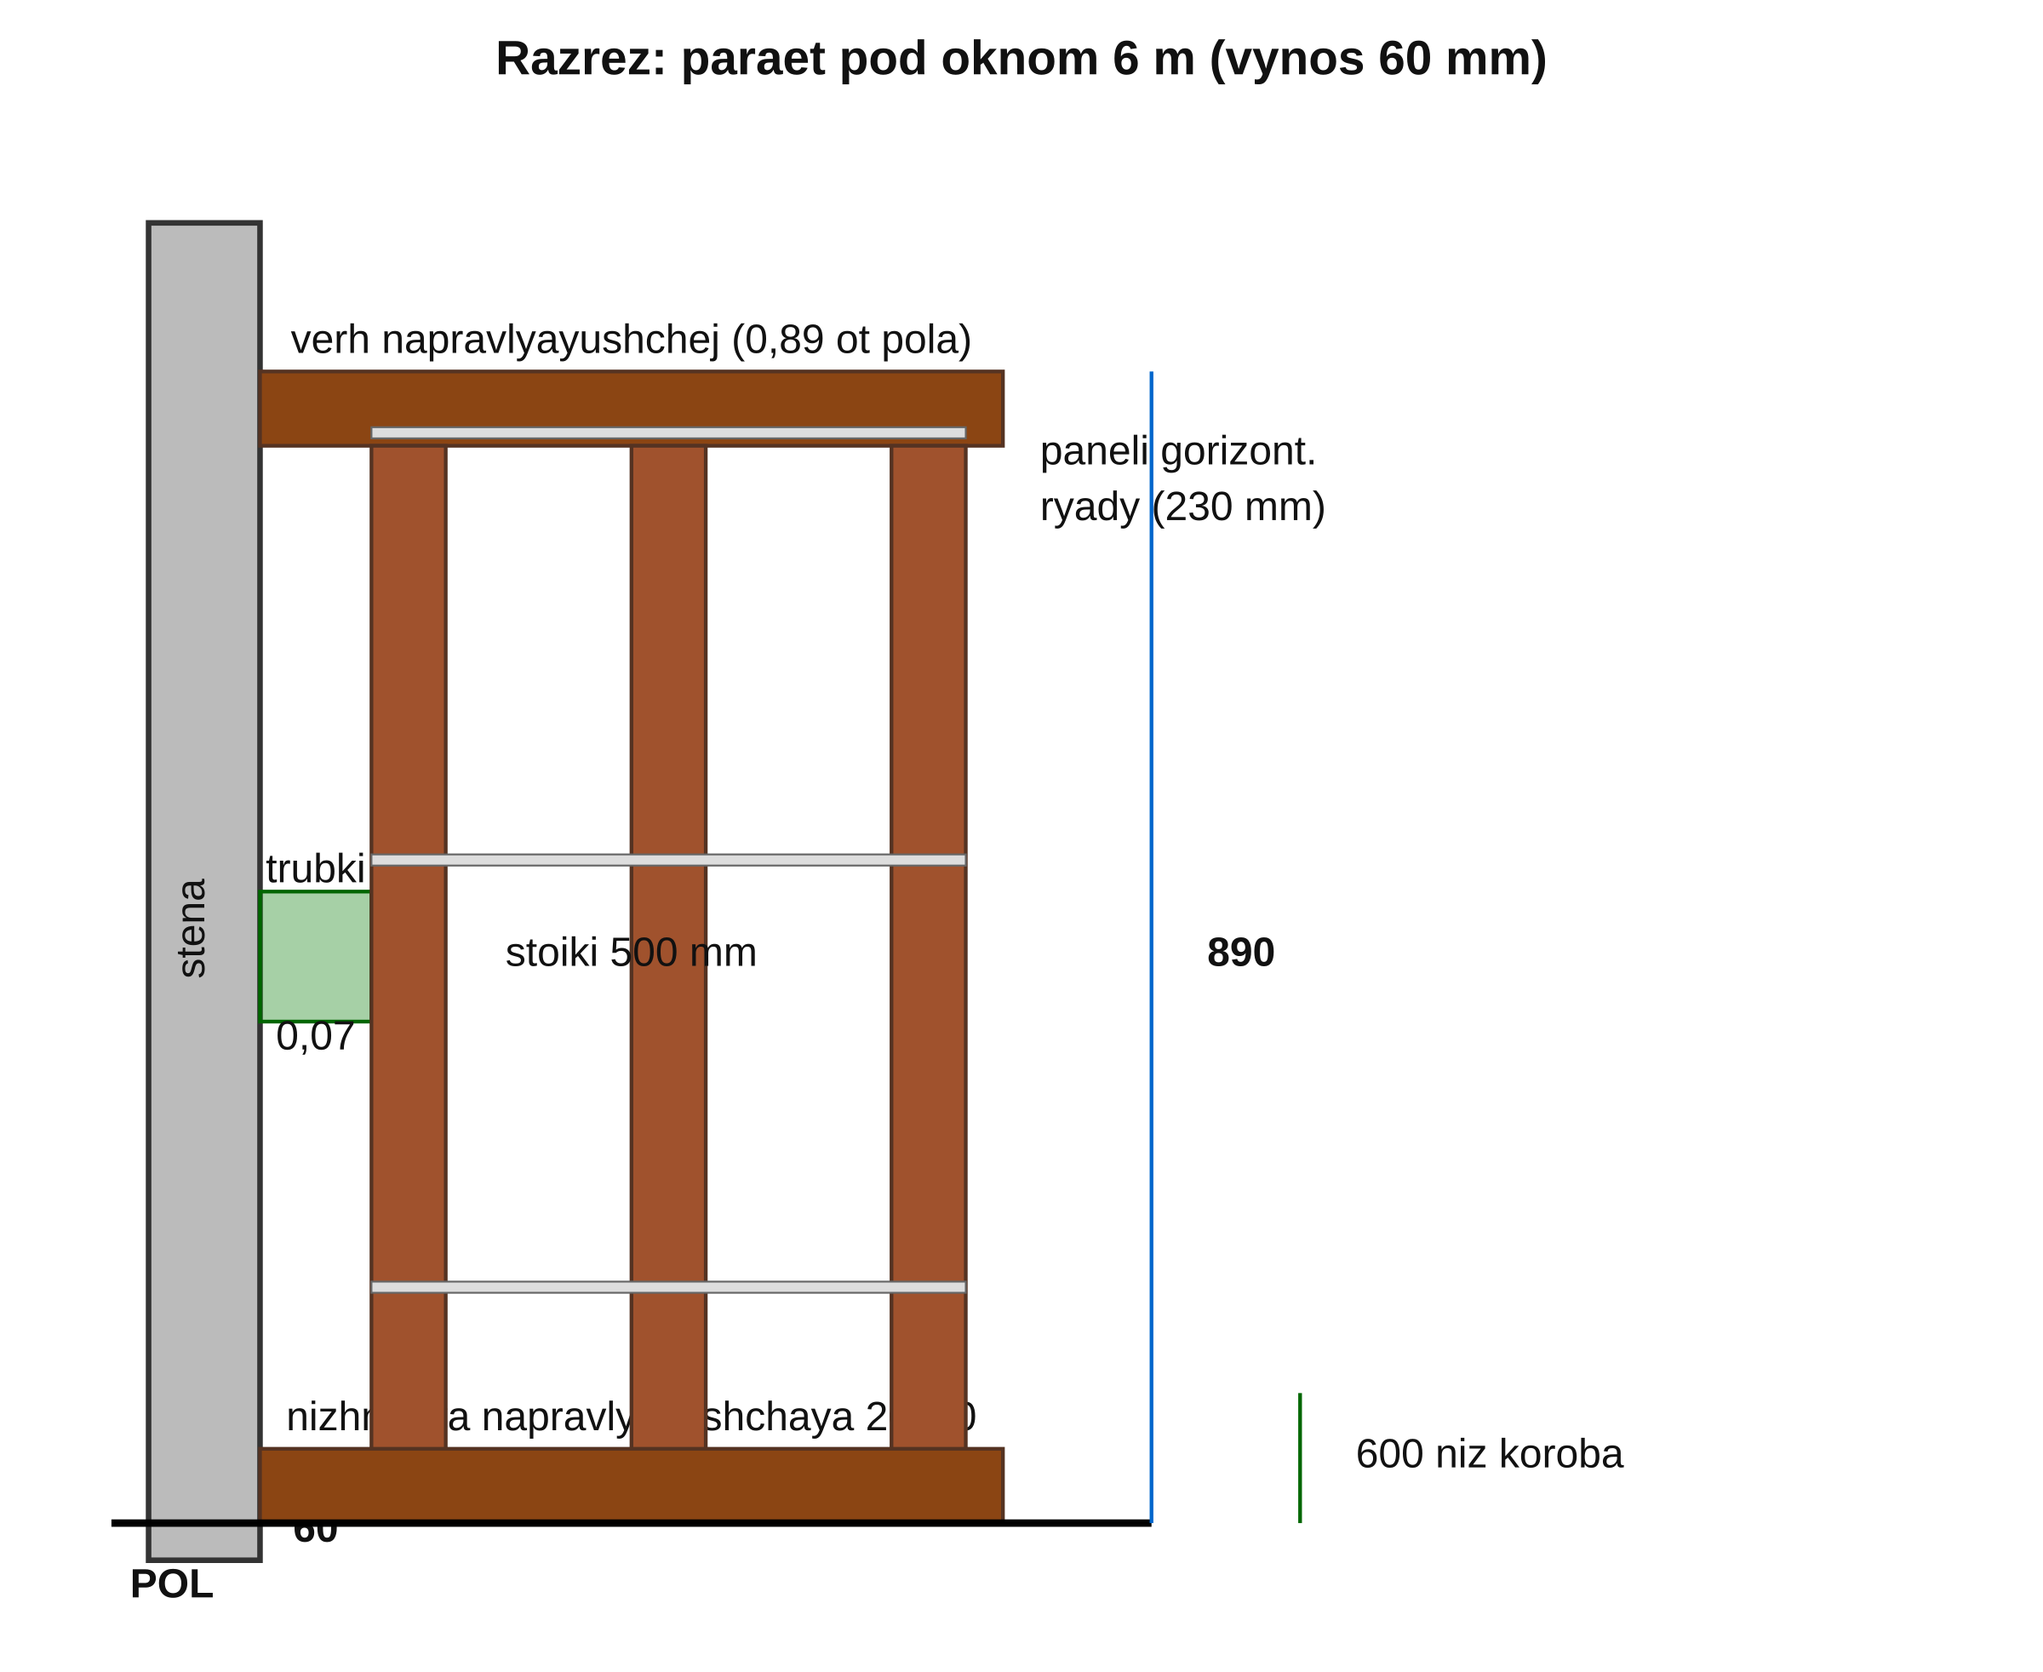
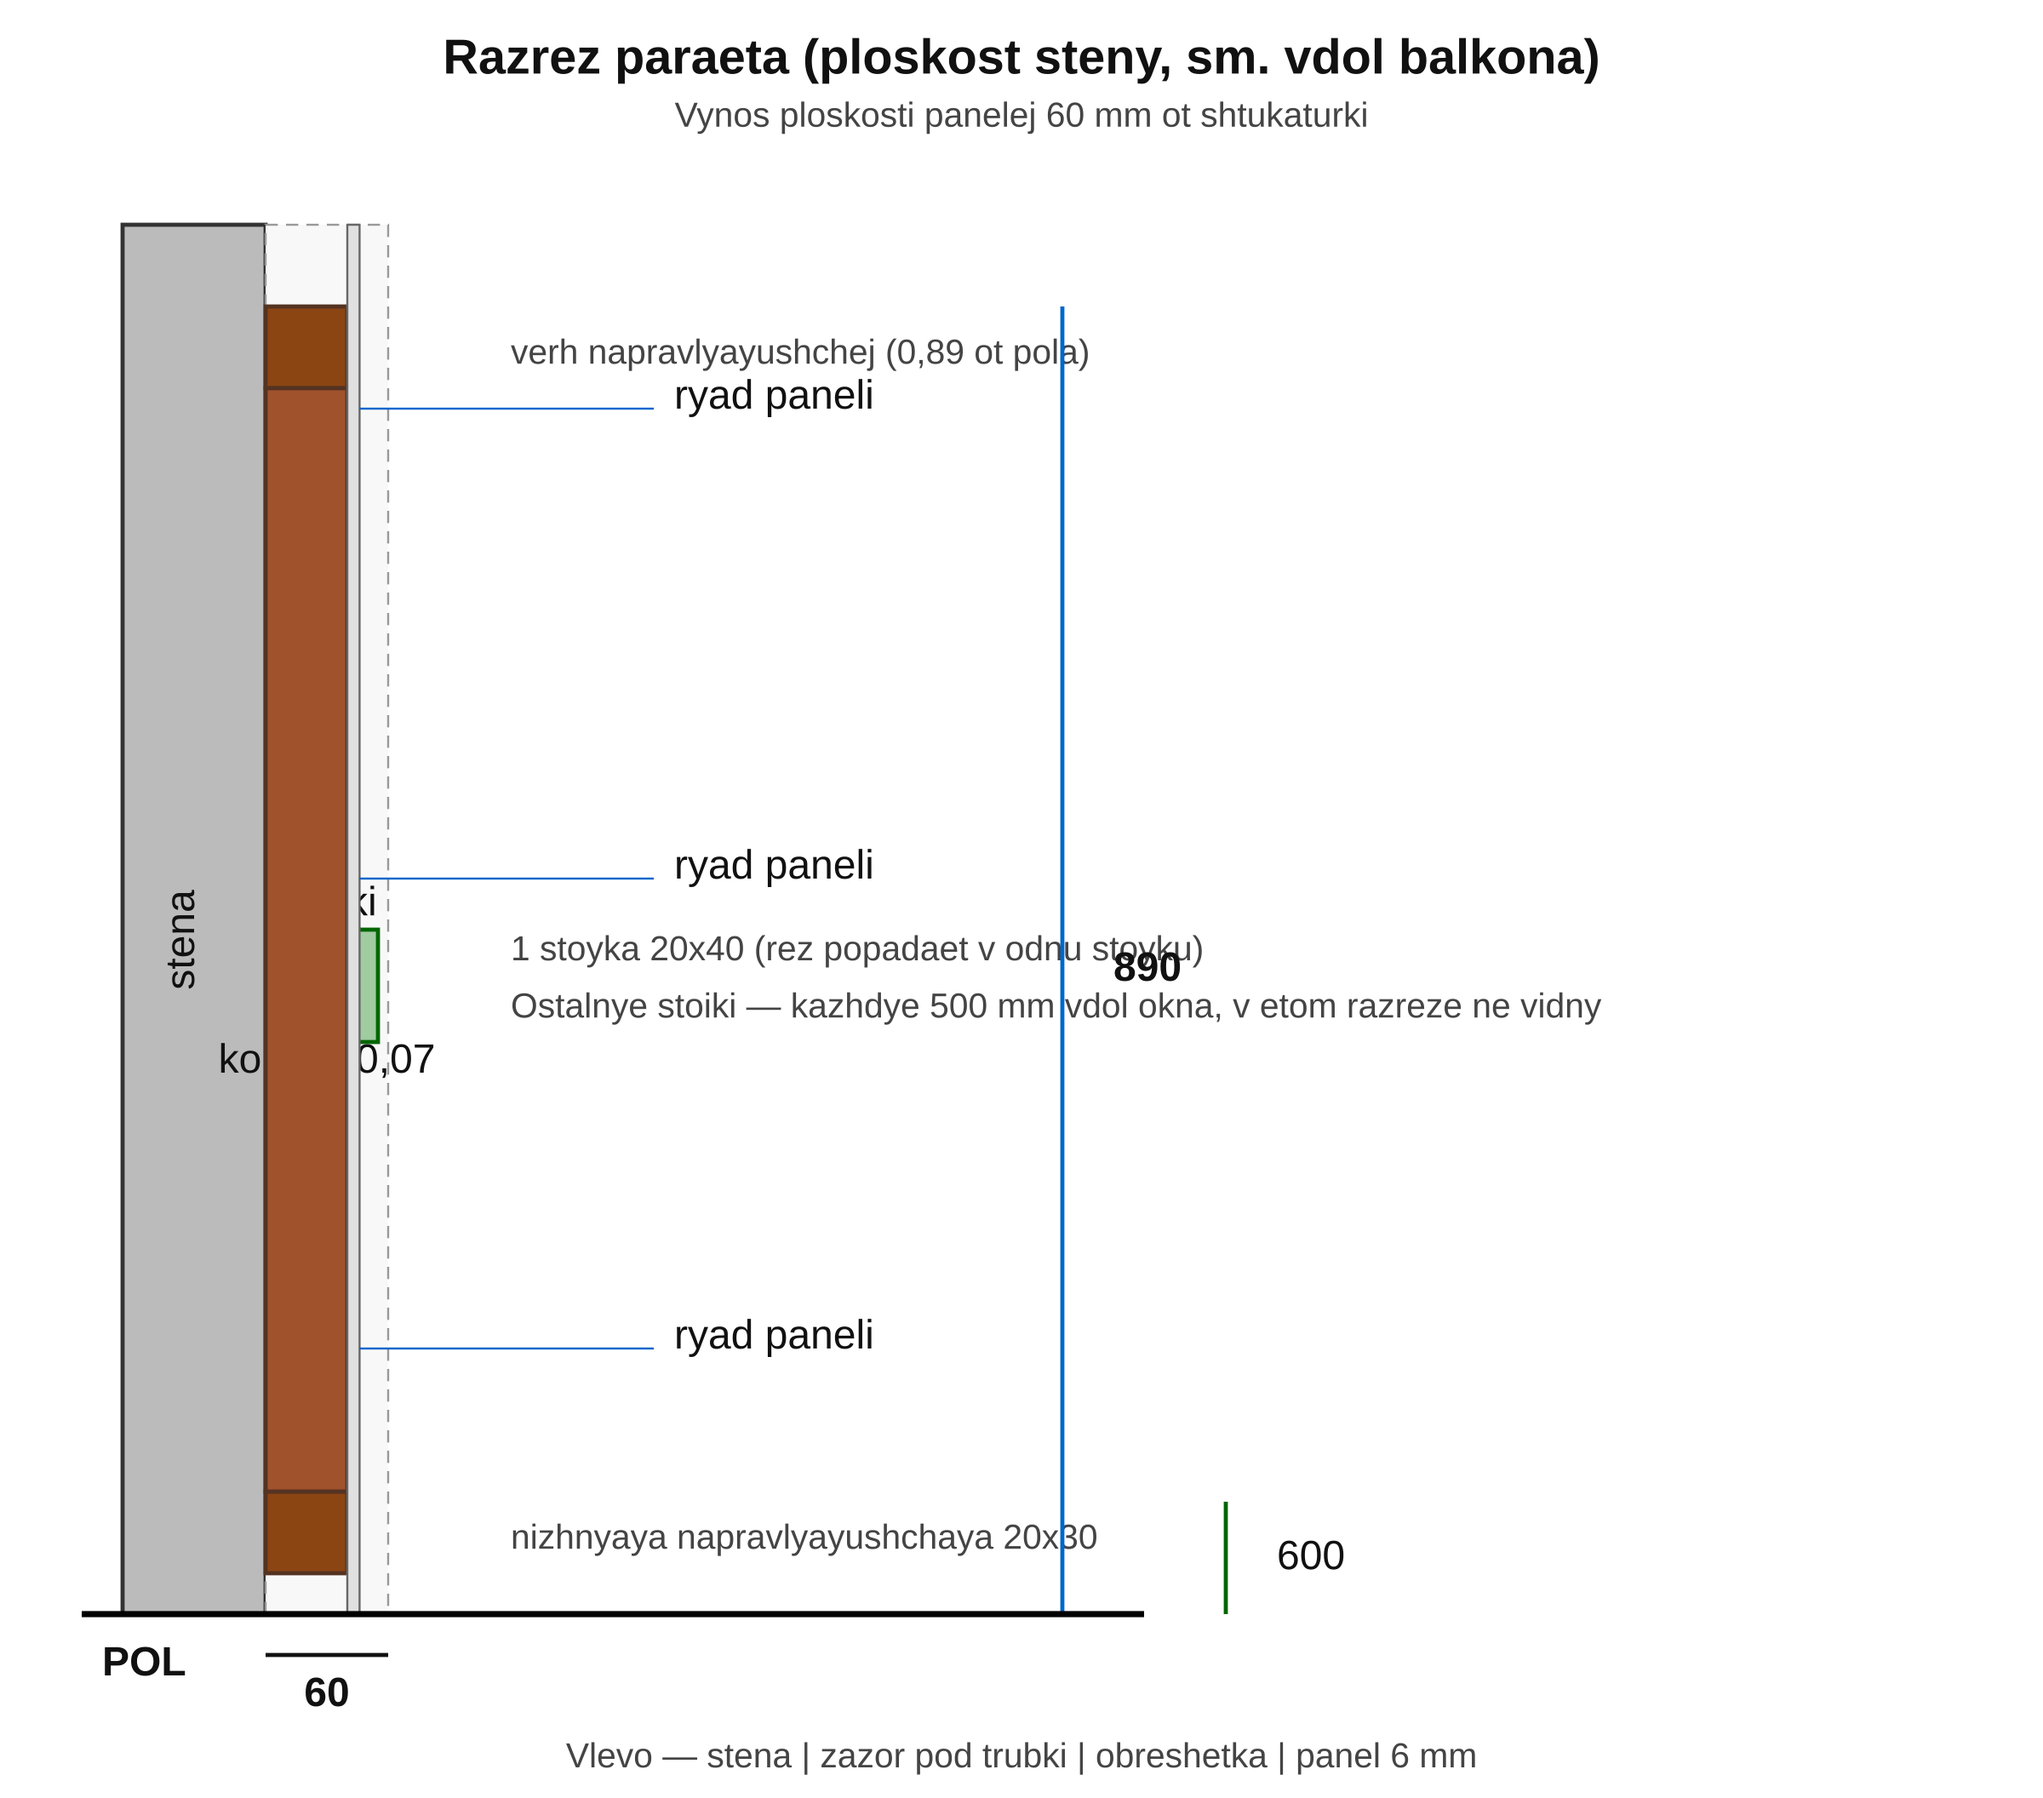
Recalc batten BOM for 20x30x2000 pine stock

diff --git a/balcony-loggia/OBRESHEOTKA.md b/balcony-loggia/OBRESHEOTKA.md
@@ -1,9 +1,9 @@
 # Обрешётка под МДФ 6 мм (горизонтальные панели)
 
 Исходные размеры: `RAZMERY.md`.  
-**Стойки:** брус **20×40 мм**, шаг **500 мм** (0,5 м), крепёж в шов ряда **на каждом пересечении** «стойка × шов».
+**Стойки:** брус **20×30 мм**, хвоя **2 сорт**, длина хлыста **2000 мм**; шаг **500 мм**, крепёж в шов ряда **на каждом пересечении** «стойка × шов».
 
-**Плоскость панелей:** брус 40 мм к стене + панель 6 мм ≈ **46 мм** от штукатурки (без утеплителя).
+**Плоскость панелей:** брус **30 мм** к стене + панель 6 мм ≈ **36 мм** от штукатурки (без утеплителя). Для **60 мм** под трубы на парапете — не толщина бруса, а **подкладки/дюбель-вынос** у направляющих (см. §1).
 
 **Ниша шкафа (0,8×0,8 м):** выбрана **в несущей стене**, «наружу» уходит **на улицу** — **на лоджии нет** отдельного глухого простенка 0,8 м под панели. Со стороны лоджии — **проём в толщине стены**; отделка **внутри шкафа** (грунт → штукатурка → краска), **без** обрешётки и МДФ. Участок **0,80** в развёртке **6,80** — это **привязка ниши**, не зона облицовки панелями.
 
@@ -15,12 +15,14 @@
 
 | Элемент | Размер | Кол-во | П.м. |
 |---------|--------|--------|------|
-| Нижняя направляющая 20×40 (к стене, выступ 60) | 6,0 м | 1 | **6,0** |
-| Верхняя направляющая (у отм. **0,89 м** от пола) | 6,0 м | 1 | **6,0** |
-| Вертикальные стойки 20×40 между направляющими | 0,89 м | **13** | **11,6** |
-| **Итого брус 20×40 на парапет** | | | **≈ 23,6** |
+| Нижняя направляющая 20×30 (к стене, выступ 60) | 6,0 м | **3 хлыста** + стык | **6,0** |
+| Верхняя направляющая (у отм. **0,89 м** от пола) | 6,0 м | **3 хлыста** + стык | **6,0** |
+| Вертикальные стойки 20×30 между направляющими | 0,89 м | **13** | **11,6** |
+| **Итого брус 20×30 на парапет** | | | **≈ 23,6 п.м.** |
 
-**Как выставить 60 мм:** направляющие к стене через **дюбель + подкладки 6 мм** (или брусок **60×40** вместо 20×40 у стены — тогда вертикальные 20×40 клеятся/саморезятся **с торца** 60×40). Схема: `section-obreshetka-ac.svg`.
+**Как выставить 60 мм:** направляющие на **дюбель + подкладки** (итого **60 мм** от штукатурки до плоскости 20×30). Схема: `section-obreshetka-ac.svg`.
+
+**Длина 2000 мм:** направляющие **6 м** = **3×2,0 м** + **стык** на соседних стойках (шаг 500); стойки парапета **0,89 м** — **из одного хлыста** с отрезом.
 
 **Панели на парапете:** горизонтальные ряды, высота зоны **0,89 м** → **4 ряда** (230 мм) + подрез последнего ряда.
 
@@ -73,7 +75,7 @@
 
 ## 5. Откосы из тех же панелей
 
-На откосе — **мини-обрешётка**: брус 20×40 **шаг 500 мм** по ширине откоса (обычно **150–250 мм** глубина), плюс **периметр** (верх/низ/бок проёма).
+На откосе — **мини-обрешётка**: брус 20×30 **шаг 500 мм** по ширине откоса (обычно **150–250 мм** глубина), плюс **периметр** (верх/низ/бок проёма).
 
 | Проём | Периметр ≈ | Стойки на откосе (оценка) |
 |-------|------------|---------------------------|
@@ -88,7 +90,7 @@
 
 ---
 
-## 6. Сводка для закупки (брус 20×40)
+## 6. Сводка для закупки — **20×30×2000**, хвоя 2 сорт
 
 | Зона | П.м. (ориентир) |
 |------|-----------------|
@@ -98,13 +100,22 @@
 | Потолок | **13** |
 | Откосы (без ниши шкафа) | **18–28** |
 | **Сумма** | **≈ 90–100** |
-| **+10 % запас** | **≈ 99–110** |
+| **+10–15 %** (откосы, стыки, брак 2 сорт) | **≈ 100–115 п.м.** |
 
-**В магазине:**  
-- при длине хлыста **2,5 м** → **100 ÷ 2,5 ≈ 40–44 шт**;  
-- при **3,0 м** → **≈ 33–37 шт**.
+**Хлысты по 2,0 м:** **100–115 ÷ 2 ≈ 50–58 шт** → в магазин **55–60 шт** (округление вверх).
 
-Дополнительно на зону 60 мм (если не подкладки): **2 хлыста 60×40** (или **40×60**) × **6 м** — **12 п.м.** (две направляющие у стены).
+### Стыки и высота **2,47 м**
+
+| Деталь | Как из 2000 |
+|--------|-------------|
+| Стойка **2,47 м** (стены, бока) | **2000 + 470** (второй кусок из обрезков) или **2000 + 500** с подрезом; стык **на одной линии с швом ряда панелей** или под уголком |
+| Направляющая **6 м** (парапет) | **3×2000**, стыки на **стойках** |
+| Поперечина потолка **1 м** | **1 отрез** с хлыста (остаток **1 м** — в откосы/коротыши) |
+| Парапет **0,89 м** | **1 отрез** с хлыста |
+
+**Обрезки:** сначала режьте **длинные стойки 2,47**, из остатков — откосы, парапет, потолок; **6 м** — только из **целых 2 м**, не из обрезков.
+
+**60 мм под трубы:** отдельно **подкладки** (фанера 10–12 мм, пластик, шайбы под дюбель) — **не** увеличивать сечение 20×30.
 
 ---
 
